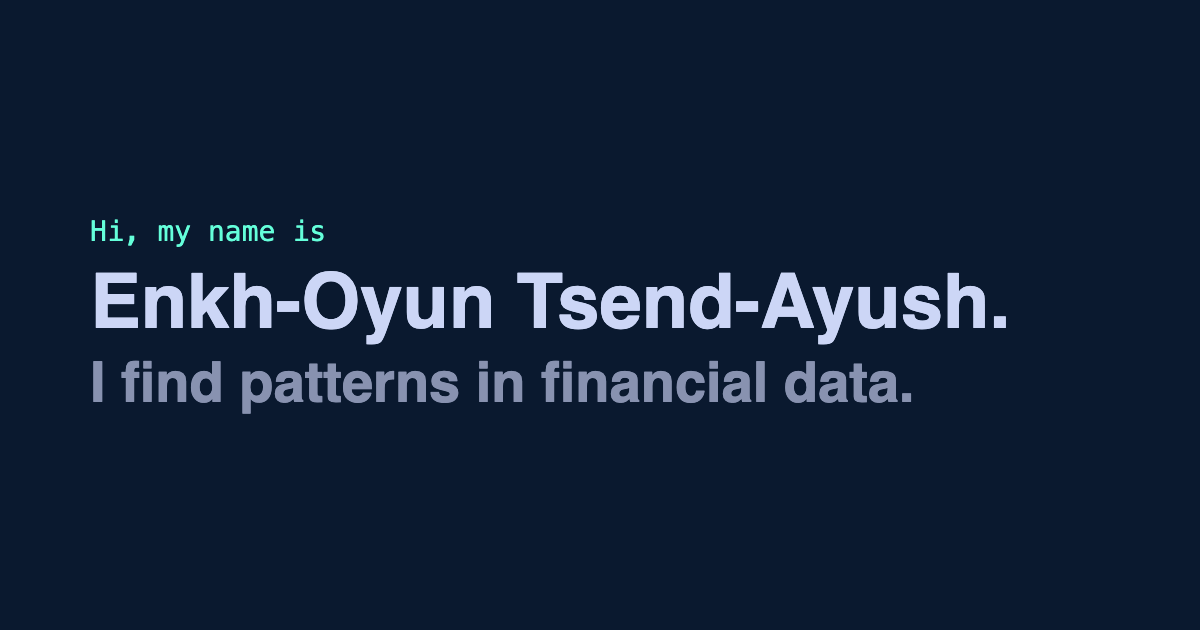
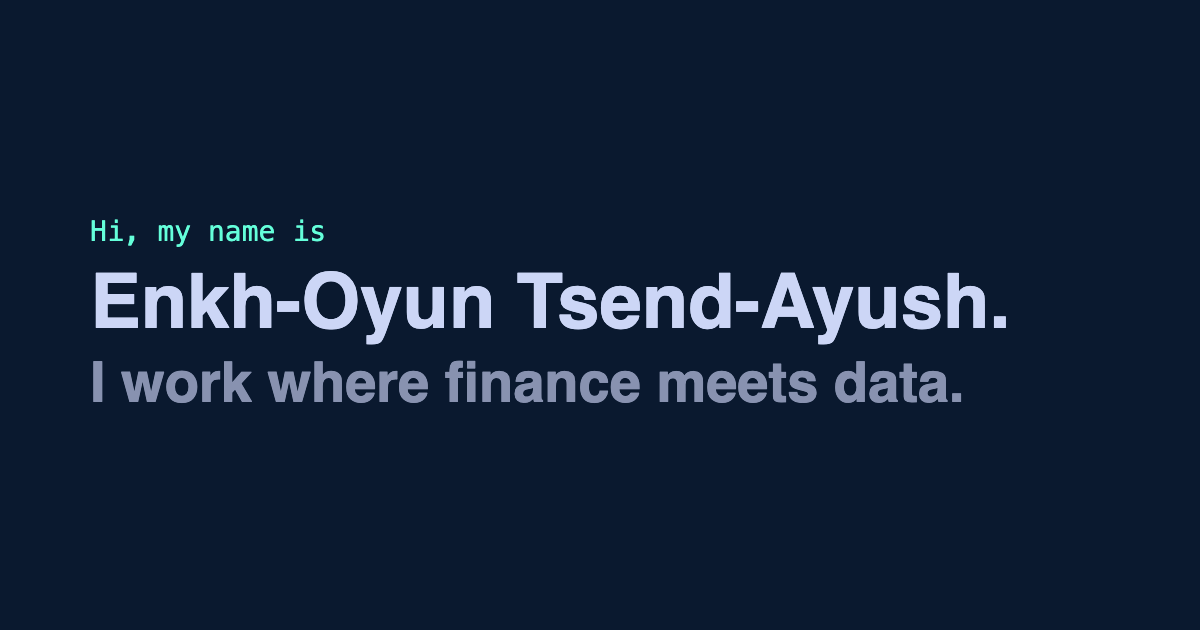
Update hero headline and share image

Changed region(s): [[0.0925, 0.573, 0.8017, 0.6635]]

diff --git a/src/components/sections/hero.js b/src/components/sections/hero.js
@@ -61,7 +61,7 @@ const Hero = () => {
 
   const one = <h1>Hi, my name is</h1>;
   const two = <h2 className="big-heading">Enkh-Oyun Tsend-Ayush.</h2>;
-  const three = <h3 className="big-heading">I find patterns in financial data.</h3>;
+  const three = <h3 className="big-heading">I work where finance meets data.</h3>;
   const four = (
     <>
       <p>
